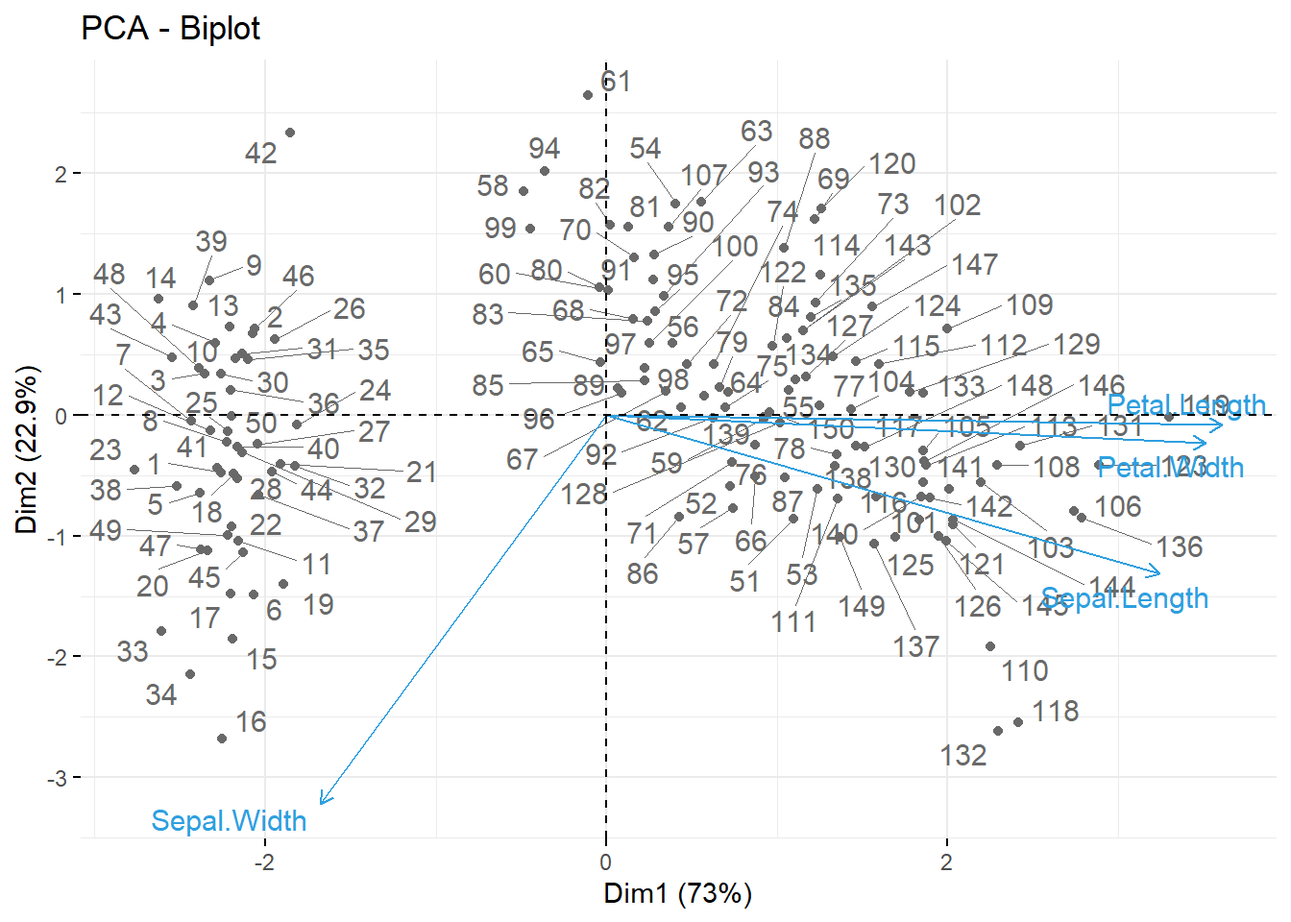
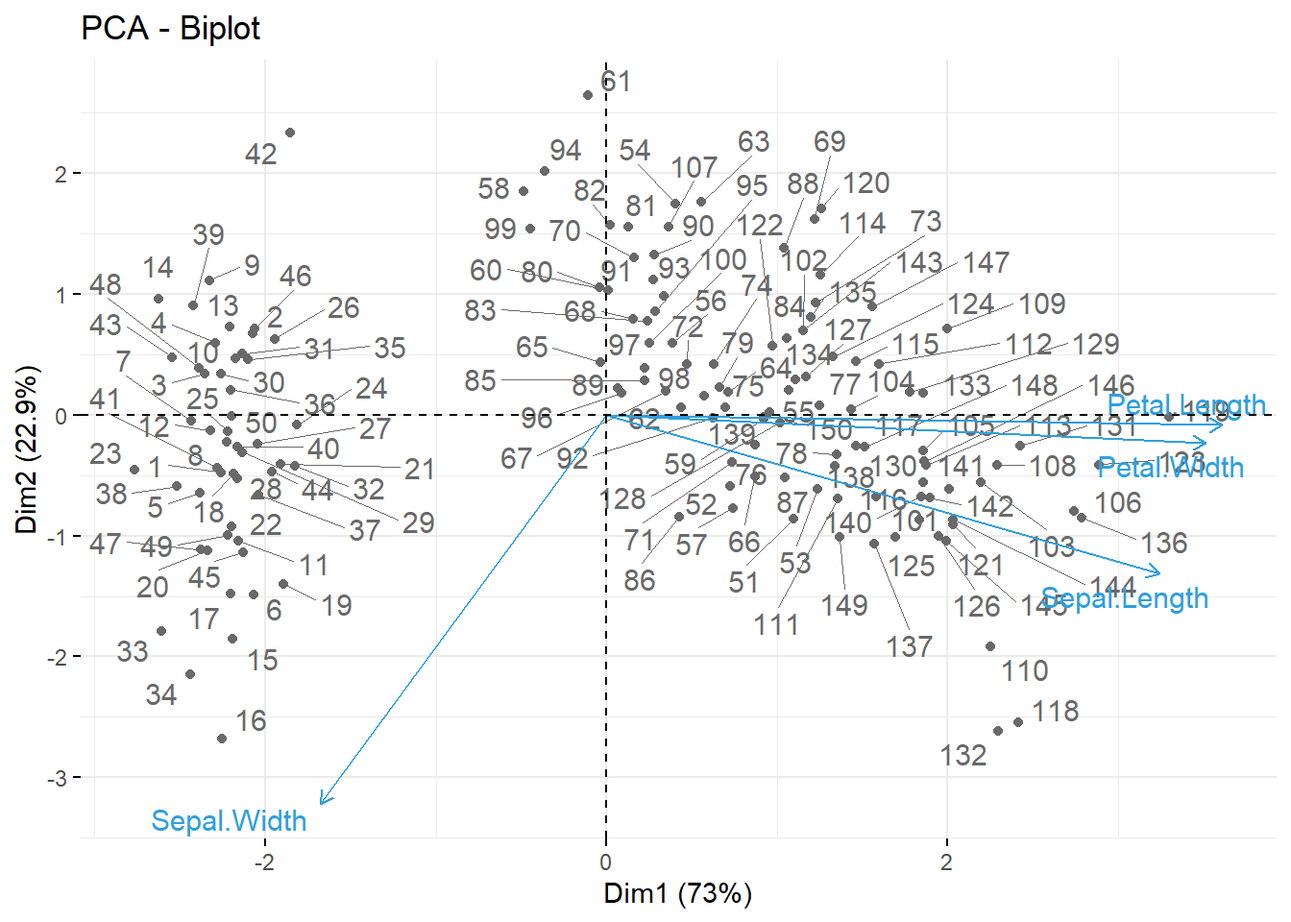
cambio notación

diff --git a/docs/intro.html b/docs/intro.html
@@ -2624,7 +2624,7 @@ $ stand_bm          &lt;dbl&gt; 0.107591350, 0.216626878, -0.982763938, NA, -0.5
 <span id="cb178-22"><a href="#cb178-22" aria-hidden="true" tabindex="-1"></a>fig</span></code><button title="Copiar al portapapeles" class="code-copy-button"><i class="bi"></i></button></pre></div>
 <div class="cell-output-display">
 <div class="plotly html-widget html-fill-item-overflow-hidden html-fill-item" id="htmlwidget-0d7598595affc4f25ab8" style="width:100%;height:464px;"></div>
-<script type="application/json" data-for="htmlwidget-0d7598595affc4f25ab8">{"x":{"visdat":{"2478389a46b0":["function () ","plotlyVisDat"]},"cur_data":"2478389a46b0","attrs":{"2478389a46b0":{"mode":"lines","alpha_stroke":1,"sizes":[10,100],"spans":[1,20],"type":"scatter"},"2478389a46b0.1":{"mode":"lines","alpha_stroke":1,"sizes":[10,100],"spans":[1,20],"type":"scatter","x":{},"y":{},"name":"GOOG","inherit":true}},"layout":{"width":900,"margin":{"b":40,"l":60,"t":25,"r":10},"showlegend":false,"xaxis":{"domain":[0,1],"automargin":true,"zerolinecolor":"#ffff","zerolinewidth":2,"gridcolor":"ffff","title":"date"},"yaxis":{"domain":[0,1],"automargin":true,"zerolinecolor":"#ffff","zerolinewidth":2,"gridcolor":"ffff","title":"GOOG"},"plot_bgcolor":"#e5ecf6","hovermode":"closest"},"source":"A","config":{"modeBarButtonsToAdd":["hoverclosest","hovercompare"],"showSendToCloud":false},"data":[{"mode":"lines","type":"scatter","marker":{"color":"rgba(31,119,180,1)","line":{"color":"rgba(31,119,180,1)"}},"error_y":{"color":"rgba(31,119,180,1)"},"error_x":{"color":"rgba(31,119,180,1)"},"line":{"color":"rgba(31,119,180,1)"},"xaxis":"x","yaxis":"y","frame":null},{"mode":"lines","type":"scatter","x":["2018-01-02","2018-01-03","2018-01-04","2018-01-05","2018-01-08","2018-01-09","2018-01-10","2018-01-11","2018-01-12","2018-01-16","2018-01-17","2018-01-18","2018-01-19","2018-01-22","2018-01-23","2018-01-24","2018-01-25","2018-01-26","2018-01-29","2018-01-30","2018-01-31","2018-02-01","2018-02-02","2018-02-05","2018-02-06","2018-02-07","2018-02-08","2018-02-09","2018-02-12","2018-02-13","2018-02-14","2018-02-15","2018-02-16","2018-02-20","2018-02-21","2018-02-22","2018-02-23","2018-02-26","2018-02-27","2018-02-28","2018-03-01","2018-03-02","2018-03-05","2018-03-06","2018-03-07","2018-03-08","2018-03-09","2018-03-12","2018-03-13","2018-03-14","2018-03-15","2018-03-16","2018-03-19","2018-03-20","2018-03-21","2018-03-22","2018-03-23","2018-03-26","2018-03-27","2018-03-28","2018-03-29","2018-04-02","2018-04-03","2018-04-04","2018-04-05","2018-04-06","2018-04-09","2018-04-10","2018-04-11","2018-04-12","2018-04-13","2018-04-16","2018-04-17","2018-04-18","2018-04-19","2018-04-20","2018-04-23","2018-04-24","2018-04-25","2018-04-26","2018-04-27","2018-04-30","2018-05-01","2018-05-02","2018-05-03","2018-05-04","2018-05-07","2018-05-08","2018-05-09","2018-05-10","2018-05-11","2018-05-14","2018-05-15","2018-05-16","2018-05-17","2018-05-18","2018-05-21","2018-05-22","2018-05-23","2018-05-24","2018-05-25","2018-05-29","2018-05-30","2018-05-31","2018-06-01","2018-06-04","2018-06-05","2018-06-06","2018-06-07","2018-06-08","2018-06-11","2018-06-12","2018-06-13","2018-06-14","2018-06-15","2018-06-18","2018-06-19","2018-06-20","2018-06-21","2018-06-22","2018-06-25","2018-06-26","2018-06-27","2018-06-28","2018-06-29","2018-07-02","2018-07-03","2018-07-05","2018-07-06","2018-07-09","2018-07-10","2018-07-11","2018-07-12","2018-07-13","2018-07-16","2018-07-17","2018-07-18","2018-07-19","2018-07-20","2018-07-23","2018-07-24","2018-07-25","2018-07-26","2018-07-27","2018-07-30","2018-07-31","2018-08-01","2018-08-02","2018-08-03","2018-08-06","2018-08-07","2018-08-08","2018-08-09","2018-08-10","2018-08-13","2018-08-14","2018-08-15","2018-08-16","2018-08-17","2018-08-20","2018-08-21","2018-08-22","2018-08-23","2018-08-24","2018-08-27","2018-08-28","2018-08-29","2018-08-30","2018-08-31","2018-09-04","2018-09-05","2018-09-06","2018-09-07","2018-09-10","2018-09-11","2018-09-12","2018-09-13","2018-09-14","2018-09-17","2018-09-18","2018-09-19","2018-09-20","2018-09-21","2018-09-24","2018-09-25","2018-09-26","2018-09-27","2018-09-28","2018-10-01","2018-10-02","2018-10-03","2018-10-04","2018-10-05","2018-10-08","2018-10-09","2018-10-10","2018-10-11","2018-10-12","2018-10-15","2018-10-16","2018-10-17","2018-10-18","2018-10-19","2018-10-22","2018-10-23","2018-10-24","2018-10-25","2018-10-26","2018-10-29","2018-10-30","2018-10-31","2018-11-01","2018-11-02","2018-11-05","2018-11-06","2018-11-07","2018-11-08","2018-11-09","2018-11-12","2018-11-13","2018-11-14","2018-11-15","2018-11-16","2018-11-19","2018-11-20","2018-11-21","2018-11-23","2018-11-26","2018-11-27","2018-11-28","2018-11-29","2018-11-30","2018-12-03","2018-12-04","2018-12-06","2018-12-07","2018-12-10","2018-12-11","2018-12-12","2018-12-13","2018-12-14","2018-12-17","2018-12-18","2018-12-19","2018-12-20","2018-12-21","2018-12-24","2018-12-26","2018-12-27","2018-12-28","2018-12-31","2019-01-02","2019-01-03","2019-01-04","2019-01-07","2019-01-08","2019-01-09","2019-01-10","2019-01-11","2019-01-14","2019-01-15","2019-01-16","2019-01-17","2019-01-18","2019-01-22","2019-01-23","2019-01-24","2019-01-25","2019-01-28","2019-01-29","2019-01-30","2019-01-31","2019-02-01","2019-02-04","2019-02-05","2019-02-06","2019-02-07","2019-02-08","2019-02-11","2019-02-12","2019-02-13","2019-02-14","2019-02-15","2019-02-19","2019-02-20","2019-02-21","2019-02-22","2019-02-25","2019-02-26","2019-02-27","2019-02-28","2019-03-01","2019-03-04","2019-03-05","2019-03-06","2019-03-07","2019-03-08","2019-03-11","2019-03-12","2019-03-13","2019-03-14","2019-03-15","2019-03-18","2019-03-19","2019-03-20","2019-03-21","2019-03-22","2019-03-25","2019-03-26","2019-03-27","2019-03-28","2019-03-29","2019-04-01","2019-04-02","2019-04-03","2019-04-04","2019-04-05","2019-04-08","2019-04-09","2019-04-10","2019-04-11","2019-04-12","2019-04-15","2019-04-16","2019-04-17","2019-04-18","2019-04-22","2019-04-23","2019-04-24","2019-04-25","2019-04-26","2019-04-29","2019-04-30","2019-05-01","2019-05-02","2019-05-03","2019-05-06","2019-05-07","2019-05-08","2019-05-09","2019-05-10","2019-05-13","2019-05-14","2019-05-15","2019-05-16","2019-05-17","2019-05-20","2019-05-21","2019-05-22","2019-05-23","2019-05-24","2019-05-28","2019-05-29","2019-05-30","2019-05-31","2019-06-03","2019-06-04","2019-06-05","2019-06-06","2019-06-07","2019-06-10","2019-06-11","2019-06-12","2019-06-13","2019-06-14","2019-06-17","2019-06-18","2019-06-19","2019-06-20","2019-06-21","2019-06-24","2019-06-25","2019-06-26","2019-06-27","2019-06-28","2019-07-01","2019-07-02","2019-07-03","2019-07-05","2019-07-08","2019-07-09","2019-07-10","2019-07-11","2019-07-12","2019-07-15","2019-07-16","2019-07-17","2019-07-18","2019-07-19","2019-07-22","2019-07-23","2019-07-24","2019-07-25","2019-07-26","2019-07-29","2019-07-30","2019-07-31","2019-08-01","2019-08-02","2019-08-05","2019-08-06","2019-08-07","2019-08-08","2019-08-09","2019-08-12","2019-08-13","2019-08-14","2019-08-15","2019-08-16","2019-08-19","2019-08-20","2019-08-21","2019-08-22","2019-08-23","2019-08-26","2019-08-27","2019-08-28","2019-08-29","2019-08-30","2019-09-03","2019-09-04","2019-09-05","2019-09-06","2019-09-09","2019-09-10","2019-09-11","2019-09-12","2019-09-13","2019-09-16","2019-09-17","2019-09-18","2019-09-19","2019-09-20","2019-09-23","2019-09-24","2019-09-25","2019-09-26","2019-09-27","2019-09-30","2019-10-01","2019-10-02","2019-10-03","2019-10-04","2019-10-07","2019-10-08","2019-10-09","2019-10-10","2019-10-11","2019-10-14","2019-10-15","2019-10-16","2019-10-17","2019-10-18","2019-10-21","2019-10-22","2019-10-23","2019-10-24","2019-10-25","2019-10-28","2019-10-29","2019-10-30","2019-10-31","2019-11-01","2019-11-04","2019-11-05","2019-11-06","2019-11-07","2019-11-08","2019-11-11","2019-11-12","2019-11-13","2019-11-14","2019-11-15","2019-11-18","2019-11-19","2019-11-20","2019-11-21","2019-11-22","2019-11-25","2019-11-26","2019-11-27","2019-11-29","2019-12-02","2019-12-03","2019-12-04","2019-12-05","2019-12-06","2019-12-09","2019-12-10","2019-12-11","2019-12-12","2019-12-13","2019-12-16","2019-12-17","2019-12-18","2019-12-19","2019-12-20","2019-12-23","2019-12-24","2019-12-26","2019-12-27","2019-12-30"],"y":[1,1.01641315585571,1.02009389098261,1.03495774246717,1.03938028398254,1.03874177887966,1.03531456889121,1.03804696669601,1.05376523873056,1.05329579814499,1.06289200044014,1.06083564579207,1.06808450188435,1.0852676176689,1.09856339575539,1.09318313240445,1.09893899120635,1.10407511393229,1.10383097330729,1.09266669761407,1.09853524221501,1.09643189336213,1.04403758160945,0.99136151954042,1.01464786439994,0.984582175671215,0.940394370208884,0.97444131340779,0.987737091494278,0.987887315347161,1.00441315700191,1.02302350684511,1.02798125217778,1.03517372955179,1.0435117623056,1.03908922079024,1.05801878736612,1.07394366197183,1.05003758103635,1.03730516030755,1.0042441641221,1.01307040648841,1.02434743961818,1.02822532116527,1.04191546372964,1.05727698097766,1.08923941598812,1.09342720139195,1.06870423796031,1.07933330983623,1.07941784209489,1.0664131272007,1.03269485688545,1.03071364998258,1.02430044541337,0.985051616256786,0.959220635499193,0.988929569441388,0.943755888603103,0.943248838326181,0.968816909431852,0.94504228332233,0.951558717539613,0.962572769379952,0.965079795586671,0.945577487139635,0.953474161210754,0.96867607009243,0.957718325332857,0.969492952588578,0.966450722564554,0.974629075314517,1.00860094240574,1.00664788904324,1.02131452247011,1.00747415605285,1.00230049527307,0.957727709846317,0.958854424561693,0.976563359650088,0.967183072802047,0.95523945266652,0.974000026362603,0.961859188169381,0.96123945209342,0.984234733760637,0.990413110580803,0.989586843571193,1.01667606550763,1.03058219515662,1.03123001313545,1.03305161167199,1.01336146968071,1.01574649721244,1.01276057426918,1.00127701020577,1.01369014256437,1.00444131054229,1.01379344384995,1.01337092583168,1.01000940743746,0.995605612025015,1.00262909651922,1.01876995820954,1.05117368026518,1.069755876568,1.07010331847858,1.06749299098628,1.0552676205344,1.05246007498441,1.0610234793363,1.06978403010838,1.06553048147282,1.08180279798911,1.08193425281507,1.10184038189096,1.09676995075924,1.09844132544289,1.08700468394678,1.08495771381217,1.05615965077575,1.05019718940269,1.03660096361044,1.04621593493251,1.04755870837001,1.05864790795555,1.03557747854313,1.05565260049883,1.07058214357761,1.08361501201218,1.08247884114583,1.08347417267276,1.11124882227938,1.11626294633033,1.11160564870342,1.1256337770274,1.12289199470914,1.11451642390148,1.11259152407937,1.13192491128411,1.17190609067818,1.18657279574255,1.19092018951273,1.16291078379456,1.14529576547829,1.14296711666483,1.14554929061675,1.15131453393211,1.14902349481001,1.15001875469942,1.16640375701474,1.16958682637819,1.17286388415126,1.16207513227149,1.159633797659,1.16629107121571,1.14026294403793,1.1328544795793,1.12766197813509,1.13405634203987,1.12828171421105,1.13364320853506,1.13181222548507,1.14615025766579,1.16602816156378,1.15600936961286,1.17305164605799,1.16349298181668,1.14384037787925,1.12394363331683,1.11406575234283,1.09994363560923,1.09373710524868,1.09355865621791,1.10550234799094,1.09184974348041,1.10359621719575,1.10096712067653,1.08549298926698,1.09034743331408,1.09961503436308,1.11443189164283,1.09492019868233,1.1017558496323,1.11234738345437,1.10844134836689,1.12172767030241,1.12062910912742,1.12235679089184,1.12686386466586,1.12953049923892,1.09689202107174,1.08671362075447,1.07884510022374,1.06931458952281,1.01523006242206,1.01344600193937,1.04232866887196,1.02558684013259,1.05284505494883,1.04759624642386,1.02156804760857,1.02953994106239,1.03395302642679,1.03632866944506,0.986582151601012,1.02870421790181,1.0060751471721,0.957821626618435,0.972967156781837,1.01105166153169,1.00469483568075,0.993230040644256,0.9766103538549,0.991370904053881,1.0266572477672,1.01633800811051,1.00107979214807,0.975239426877017,0.972816932928954,0.979962416098151,0.999727705834617,0.996704244837515,0.957746478873239,0.963154895764561,0.974281705041447,0.961389675946303,0.984619713725059,0.980666684432768,1.01993428261627,1.0218779514653,1.0276338102672,1.038901387246,0.98668545288659,1.00350235773364,0.973314527054908,0.976103303577978,0.987558714101012,0.998760527848078,0.997089224801937,0.978497643985659,0.954488261764598,0.96592490326071,0.960572793450154,0.94780283466751,0.919755890895503,0.916638513126284,0.976018771319322,0.980169018669308,0.973784039277986,0.972403727786642,0.982018770746222,0.95404697471941,1.00536149432402,1.00318306936345,1.01059153382207,1.00907045462881,1.00500466789998,0.992666683286568,0.98092959408469,1.01140841631822,1.01499530631052,1.02338026163164,1.03123001313545,1.00518311693075,1.00992487517881,1.00835680178074,1.02440374669894,1.00476998342595,0.995887290703859,1.02259153267587,1.04823475152674,1.04295771782387,1.06366196036898,1.07604693918721,1.04716434389213,1.03165260279123,1.02822532116527,1.02817839859797,1.05292958720749,1.05179341634115,1.05321126588633,1.04568073111521,1.05029110617481,1.04582157045463,1.03001876616142,1.04260096303734,1.04169016376907,1.04707042712001,1.04793430382097,1.05156804474307,1.07135210350646,1.07774646741124,1.09110800872946,1.08719251749101,1.07352114395357,1.07260096017184,1.1039999661871,1.12037558398896,1.120488269788,1.11319249112841,1.11216900606111,1.11198124415438,1.12568077123221,1.14926763543501,1.15637558055036,1.13192491128411,1.12018782208223,1.11231922991399,1.10142724838615,1.09717369975059,1.10169954255153,1.12153052388223,1.1272206910899,1.13231927576199,1.14084507042254,1.13347414401775,1.1303662223995,1.12417838942837,1.12878876448797,1.13109857263699,1.14353993017349,1.14657277568405,1.15223471771384,1.16088265432438,1.16091080786477,1.17261974352626,1.18737090921178,1.17934270867719,1.18633803963102,1.19453523304541,1.20899526390112,1.11594365796013,1.09678871978616,1.09165259706023,1.11305165178899,1.11679815014763,1.10244134893999,1.09508919156213,1.09143660997561,1.09321128594484,1.06293899464495,1.05205632599307,1.09315490722656,1.10702349882171,1.09136153386792,1.0693427430632,1.07946476466219,1.0811455238593,1.07114557257281,1.06429108095841,1.06492958606129,1.04831928378539,1.04971829266615,1.03627229072678,0.972985925808759,0.988779345588505,0.978610329784698,0.980600921201034,1.00097649086249,1.01444133346629,1.01288264458168,1.01129580215669,1.02231923851049,1.01910801560666,1.02582159624413,1.0362441371864,1.03505165923929,1.04358683841329,1.05340848394403,1.04743663805751,1.02004696841531,1.01389674513553,1.01033800868361,1.01493899922975,1.03093894994315,1.04342723004695,1.05312673362768,1.06252578950264,1.04821598249982,1.05617841980267,1.07087320676992,1.07437556450356,1.0750234541199,1.08013142330546,1.08317372496699,1.07638499658432,1.0763662275574,1.06112678062188,1.0686103211882,1.07625354175836,1.0683661805632,1.0630234552661,1.17409390015222,1.16376527598206,1.15036619661,1.14242252833407,1.1352206664466,1.12111739037742,1.08199063153334,1.09854462672847,1.10233804765442,1.13126763715431,1.11550237091494,1.10301409081114,1.12419715845529,1.09323005497176,1.09601875985732,1.10572771958902,1.12530517578125,1.11050701589092,1.11854460093897,1.11692960497359,1.0810234535468,1.09754929520155,1.09656334818809,1.09954927113135,1.12004698274281,1.11558683153609,1.09707978297847,1.10930515343035,1.13744601397447,1.1313896358293,1.13090142621681,1.13239435186968,1.14569951446963,1.15892021644843,1.16390611532149,1.15615020895228,1.15413146399556,1.15719246304651,1.16310800185226,1.15486381423305,1.15871361387727,1.14437558169656,1.17044131856569,1.16562441257244,1.15031927404269,1.14460095329464,1.13154931583315,1.10481692032075,1.11533330639763,1.13521128193314,1.13397180978121,1.11655400952263,1.12892960382739,1.1349013780764,1.1412675884408,1.14285443086579,1.16714556340321,1.16773707430128,1.17659154184547,1.16947421221666,1.17009387665511,1.16694834534551,1.18228170905315,1.18402815984448,1.18791549754255,1.2112676056338,1.18555869518871,1.18430983852333,1.18320189283487,1.1960000051579,1.21255392871552,1.21317373642899,1.21295767770687,1.2289765407222,1.23133327143853,1.21989677321743,1.21953056227993,1.21877937137801,1.23141780369718,1.25339905644806,1.24009396548562,1.23517375820679,1.22352105798856,1.2219248310501,1.21628165804724,1.22693902673856,1.23338024157314,1.23285442226929,1.22531457462221,1.21119252952612,1.21622535096648,1.23994366999523,1.24707045577501,1.25879808882592,1.26155871180861,1.26259158138938,1.26292956714899,1.26785908730377,1.26556811981918,1.27809393797682,1.2724130836451,1.27006566580472,1.27327703198357,1.26722065383839,1.26651645714129,1.26155871180861,1.27737082897777,1.26938023813454,1.25459153439517],"name":"GOOG","marker":{"color":"rgba(255,127,14,1)","line":{"color":"rgba(255,127,14,1)"}},"error_y":{"color":"rgba(255,127,14,1)"},"error_x":{"color":"rgba(255,127,14,1)"},"line":{"color":"rgba(255,127,14,1)"},"xaxis":"x","yaxis":"y","frame":null}],"highlight":{"on":"plotly_click","persistent":false,"dynamic":false,"selectize":false,"opacityDim":0.2,"selected":{"opacity":1},"debounce":0},"shinyEvents":["plotly_hover","plotly_click","plotly_selected","plotly_relayout","plotly_brushed","plotly_brushing","plotly_clickannotation","plotly_doubleclick","plotly_deselect","plotly_afterplot","plotly_sunburstclick"],"base_url":"https://plot.ly"},"evals":[],"jsHooks":[]}</script>
+<script type="application/json" data-for="htmlwidget-0d7598595affc4f25ab8">{"x":{"visdat":{"1211070f81bc":["function () ","plotlyVisDat"]},"cur_data":"1211070f81bc","attrs":{"1211070f81bc":{"mode":"lines","alpha_stroke":1,"sizes":[10,100],"spans":[1,20],"type":"scatter"},"1211070f81bc.1":{"mode":"lines","alpha_stroke":1,"sizes":[10,100],"spans":[1,20],"type":"scatter","x":{},"y":{},"name":"GOOG","inherit":true}},"layout":{"width":900,"margin":{"b":40,"l":60,"t":25,"r":10},"showlegend":false,"xaxis":{"domain":[0,1],"automargin":true,"zerolinecolor":"#ffff","zerolinewidth":2,"gridcolor":"ffff","title":"date"},"yaxis":{"domain":[0,1],"automargin":true,"zerolinecolor":"#ffff","zerolinewidth":2,"gridcolor":"ffff","title":"GOOG"},"plot_bgcolor":"#e5ecf6","hovermode":"closest"},"source":"A","config":{"modeBarButtonsToAdd":["hoverclosest","hovercompare"],"showSendToCloud":false},"data":[{"mode":"lines","type":"scatter","marker":{"color":"rgba(31,119,180,1)","line":{"color":"rgba(31,119,180,1)"}},"error_y":{"color":"rgba(31,119,180,1)"},"error_x":{"color":"rgba(31,119,180,1)"},"line":{"color":"rgba(31,119,180,1)"},"xaxis":"x","yaxis":"y","frame":null},{"mode":"lines","type":"scatter","x":["2018-01-02","2018-01-03","2018-01-04","2018-01-05","2018-01-08","2018-01-09","2018-01-10","2018-01-11","2018-01-12","2018-01-16","2018-01-17","2018-01-18","2018-01-19","2018-01-22","2018-01-23","2018-01-24","2018-01-25","2018-01-26","2018-01-29","2018-01-30","2018-01-31","2018-02-01","2018-02-02","2018-02-05","2018-02-06","2018-02-07","2018-02-08","2018-02-09","2018-02-12","2018-02-13","2018-02-14","2018-02-15","2018-02-16","2018-02-20","2018-02-21","2018-02-22","2018-02-23","2018-02-26","2018-02-27","2018-02-28","2018-03-01","2018-03-02","2018-03-05","2018-03-06","2018-03-07","2018-03-08","2018-03-09","2018-03-12","2018-03-13","2018-03-14","2018-03-15","2018-03-16","2018-03-19","2018-03-20","2018-03-21","2018-03-22","2018-03-23","2018-03-26","2018-03-27","2018-03-28","2018-03-29","2018-04-02","2018-04-03","2018-04-04","2018-04-05","2018-04-06","2018-04-09","2018-04-10","2018-04-11","2018-04-12","2018-04-13","2018-04-16","2018-04-17","2018-04-18","2018-04-19","2018-04-20","2018-04-23","2018-04-24","2018-04-25","2018-04-26","2018-04-27","2018-04-30","2018-05-01","2018-05-02","2018-05-03","2018-05-04","2018-05-07","2018-05-08","2018-05-09","2018-05-10","2018-05-11","2018-05-14","2018-05-15","2018-05-16","2018-05-17","2018-05-18","2018-05-21","2018-05-22","2018-05-23","2018-05-24","2018-05-25","2018-05-29","2018-05-30","2018-05-31","2018-06-01","2018-06-04","2018-06-05","2018-06-06","2018-06-07","2018-06-08","2018-06-11","2018-06-12","2018-06-13","2018-06-14","2018-06-15","2018-06-18","2018-06-19","2018-06-20","2018-06-21","2018-06-22","2018-06-25","2018-06-26","2018-06-27","2018-06-28","2018-06-29","2018-07-02","2018-07-03","2018-07-05","2018-07-06","2018-07-09","2018-07-10","2018-07-11","2018-07-12","2018-07-13","2018-07-16","2018-07-17","2018-07-18","2018-07-19","2018-07-20","2018-07-23","2018-07-24","2018-07-25","2018-07-26","2018-07-27","2018-07-30","2018-07-31","2018-08-01","2018-08-02","2018-08-03","2018-08-06","2018-08-07","2018-08-08","2018-08-09","2018-08-10","2018-08-13","2018-08-14","2018-08-15","2018-08-16","2018-08-17","2018-08-20","2018-08-21","2018-08-22","2018-08-23","2018-08-24","2018-08-27","2018-08-28","2018-08-29","2018-08-30","2018-08-31","2018-09-04","2018-09-05","2018-09-06","2018-09-07","2018-09-10","2018-09-11","2018-09-12","2018-09-13","2018-09-14","2018-09-17","2018-09-18","2018-09-19","2018-09-20","2018-09-21","2018-09-24","2018-09-25","2018-09-26","2018-09-27","2018-09-28","2018-10-01","2018-10-02","2018-10-03","2018-10-04","2018-10-05","2018-10-08","2018-10-09","2018-10-10","2018-10-11","2018-10-12","2018-10-15","2018-10-16","2018-10-17","2018-10-18","2018-10-19","2018-10-22","2018-10-23","2018-10-24","2018-10-25","2018-10-26","2018-10-29","2018-10-30","2018-10-31","2018-11-01","2018-11-02","2018-11-05","2018-11-06","2018-11-07","2018-11-08","2018-11-09","2018-11-12","2018-11-13","2018-11-14","2018-11-15","2018-11-16","2018-11-19","2018-11-20","2018-11-21","2018-11-23","2018-11-26","2018-11-27","2018-11-28","2018-11-29","2018-11-30","2018-12-03","2018-12-04","2018-12-06","2018-12-07","2018-12-10","2018-12-11","2018-12-12","2018-12-13","2018-12-14","2018-12-17","2018-12-18","2018-12-19","2018-12-20","2018-12-21","2018-12-24","2018-12-26","2018-12-27","2018-12-28","2018-12-31","2019-01-02","2019-01-03","2019-01-04","2019-01-07","2019-01-08","2019-01-09","2019-01-10","2019-01-11","2019-01-14","2019-01-15","2019-01-16","2019-01-17","2019-01-18","2019-01-22","2019-01-23","2019-01-24","2019-01-25","2019-01-28","2019-01-29","2019-01-30","2019-01-31","2019-02-01","2019-02-04","2019-02-05","2019-02-06","2019-02-07","2019-02-08","2019-02-11","2019-02-12","2019-02-13","2019-02-14","2019-02-15","2019-02-19","2019-02-20","2019-02-21","2019-02-22","2019-02-25","2019-02-26","2019-02-27","2019-02-28","2019-03-01","2019-03-04","2019-03-05","2019-03-06","2019-03-07","2019-03-08","2019-03-11","2019-03-12","2019-03-13","2019-03-14","2019-03-15","2019-03-18","2019-03-19","2019-03-20","2019-03-21","2019-03-22","2019-03-25","2019-03-26","2019-03-27","2019-03-28","2019-03-29","2019-04-01","2019-04-02","2019-04-03","2019-04-04","2019-04-05","2019-04-08","2019-04-09","2019-04-10","2019-04-11","2019-04-12","2019-04-15","2019-04-16","2019-04-17","2019-04-18","2019-04-22","2019-04-23","2019-04-24","2019-04-25","2019-04-26","2019-04-29","2019-04-30","2019-05-01","2019-05-02","2019-05-03","2019-05-06","2019-05-07","2019-05-08","2019-05-09","2019-05-10","2019-05-13","2019-05-14","2019-05-15","2019-05-16","2019-05-17","2019-05-20","2019-05-21","2019-05-22","2019-05-23","2019-05-24","2019-05-28","2019-05-29","2019-05-30","2019-05-31","2019-06-03","2019-06-04","2019-06-05","2019-06-06","2019-06-07","2019-06-10","2019-06-11","2019-06-12","2019-06-13","2019-06-14","2019-06-17","2019-06-18","2019-06-19","2019-06-20","2019-06-21","2019-06-24","2019-06-25","2019-06-26","2019-06-27","2019-06-28","2019-07-01","2019-07-02","2019-07-03","2019-07-05","2019-07-08","2019-07-09","2019-07-10","2019-07-11","2019-07-12","2019-07-15","2019-07-16","2019-07-17","2019-07-18","2019-07-19","2019-07-22","2019-07-23","2019-07-24","2019-07-25","2019-07-26","2019-07-29","2019-07-30","2019-07-31","2019-08-01","2019-08-02","2019-08-05","2019-08-06","2019-08-07","2019-08-08","2019-08-09","2019-08-12","2019-08-13","2019-08-14","2019-08-15","2019-08-16","2019-08-19","2019-08-20","2019-08-21","2019-08-22","2019-08-23","2019-08-26","2019-08-27","2019-08-28","2019-08-29","2019-08-30","2019-09-03","2019-09-04","2019-09-05","2019-09-06","2019-09-09","2019-09-10","2019-09-11","2019-09-12","2019-09-13","2019-09-16","2019-09-17","2019-09-18","2019-09-19","2019-09-20","2019-09-23","2019-09-24","2019-09-25","2019-09-26","2019-09-27","2019-09-30","2019-10-01","2019-10-02","2019-10-03","2019-10-04","2019-10-07","2019-10-08","2019-10-09","2019-10-10","2019-10-11","2019-10-14","2019-10-15","2019-10-16","2019-10-17","2019-10-18","2019-10-21","2019-10-22","2019-10-23","2019-10-24","2019-10-25","2019-10-28","2019-10-29","2019-10-30","2019-10-31","2019-11-01","2019-11-04","2019-11-05","2019-11-06","2019-11-07","2019-11-08","2019-11-11","2019-11-12","2019-11-13","2019-11-14","2019-11-15","2019-11-18","2019-11-19","2019-11-20","2019-11-21","2019-11-22","2019-11-25","2019-11-26","2019-11-27","2019-11-29","2019-12-02","2019-12-03","2019-12-04","2019-12-05","2019-12-06","2019-12-09","2019-12-10","2019-12-11","2019-12-12","2019-12-13","2019-12-16","2019-12-17","2019-12-18","2019-12-19","2019-12-20","2019-12-23","2019-12-24","2019-12-26","2019-12-27","2019-12-30"],"y":[1,1.01641315585571,1.02009389098261,1.03495774246717,1.03938028398254,1.03874177887966,1.03531456889121,1.03804696669601,1.05376523873056,1.05329579814499,1.06289200044014,1.06083564579207,1.06808450188435,1.0852676176689,1.09856339575539,1.09318313240445,1.09893899120635,1.10407511393229,1.10383097330729,1.09266669761407,1.09853524221501,1.09643189336213,1.04403758160945,0.99136151954042,1.01464786439994,0.984582175671215,0.940394370208884,0.97444131340779,0.987737091494278,0.987887315347161,1.00441315700191,1.02302350684511,1.02798125217778,1.03517372955179,1.0435117623056,1.03908922079024,1.05801878736612,1.07394366197183,1.05003758103635,1.03730516030755,1.0042441641221,1.01307040648841,1.02434743961818,1.02822532116527,1.04191546372964,1.05727698097766,1.08923941598812,1.09342720139195,1.06870423796031,1.07933330983623,1.07941784209489,1.0664131272007,1.03269485688545,1.03071364998258,1.02430044541337,0.985051616256786,0.959220635499193,0.988929569441388,0.943755888603103,0.943248838326181,0.968816909431852,0.94504228332233,0.951558717539613,0.962572769379952,0.965079795586671,0.945577487139635,0.953474161210754,0.96867607009243,0.957718325332857,0.969492952588578,0.966450722564554,0.974629075314517,1.00860094240574,1.00664788904324,1.02131452247011,1.00747415605285,1.00230049527307,0.957727709846317,0.958854424561693,0.976563359650088,0.967183072802047,0.95523945266652,0.974000026362603,0.961859188169381,0.96123945209342,0.984234733760637,0.990413110580803,0.989586843571193,1.01667606550763,1.03058219515662,1.03123001313545,1.03305161167199,1.01336146968071,1.01574649721244,1.01276057426918,1.00127701020577,1.01369014256437,1.00444131054229,1.01379344384995,1.01337092583168,1.01000940743746,0.995605612025015,1.00262909651922,1.01876995820954,1.05117368026518,1.069755876568,1.07010331847858,1.06749299098628,1.0552676205344,1.05246007498441,1.0610234793363,1.06978403010838,1.06553048147282,1.08180279798911,1.08193425281507,1.10184038189096,1.09676995075924,1.09844132544289,1.08700468394678,1.08495771381217,1.05615965077575,1.05019718940269,1.03660096361044,1.04621593493251,1.04755870837001,1.05864790795555,1.03557747854313,1.05565260049883,1.07058214357761,1.08361501201218,1.08247884114583,1.08347417267276,1.11124882227938,1.11626294633033,1.11160564870342,1.1256337770274,1.12289199470914,1.11451642390148,1.11259152407937,1.13192491128411,1.17190609067818,1.18657279574255,1.19092018951273,1.16291078379456,1.14529576547829,1.14296711666483,1.14554929061675,1.15131453393211,1.14902349481001,1.15001875469942,1.16640375701474,1.16958682637819,1.17286388415126,1.16207513227149,1.159633797659,1.16629107121571,1.14026294403793,1.1328544795793,1.12766197813509,1.13405634203987,1.12828171421105,1.13364320853506,1.13181222548507,1.14615025766579,1.16602816156378,1.15600936961286,1.17305164605799,1.16349298181668,1.14384037787925,1.12394363331683,1.11406575234283,1.09994363560923,1.09373710524868,1.09355865621791,1.10550234799094,1.09184974348041,1.10359621719575,1.10096712067653,1.08549298926698,1.09034743331408,1.09961503436308,1.11443189164283,1.09492019868233,1.1017558496323,1.11234738345437,1.10844134836689,1.12172767030241,1.12062910912742,1.12235679089184,1.12686386466586,1.12953049923892,1.09689202107174,1.08671362075447,1.07884510022374,1.06931458952281,1.01523006242206,1.01344600193937,1.04232866887196,1.02558684013259,1.05284505494883,1.04759624642386,1.02156804760857,1.02953994106239,1.03395302642679,1.03632866944506,0.986582151601012,1.02870421790181,1.0060751471721,0.957821626618435,0.972967156781837,1.01105166153169,1.00469483568075,0.993230040644256,0.9766103538549,0.991370904053881,1.0266572477672,1.01633800811051,1.00107979214807,0.975239426877017,0.972816932928954,0.979962416098151,0.999727705834617,0.996704244837515,0.957746478873239,0.963154895764561,0.974281705041447,0.961389675946303,0.984619713725059,0.980666684432768,1.01993428261627,1.0218779514653,1.0276338102672,1.038901387246,0.98668545288659,1.00350235773364,0.973314527054908,0.976103303577978,0.987558714101012,0.998760527848078,0.997089224801937,0.978497643985659,0.954488261764598,0.96592490326071,0.960572793450154,0.94780283466751,0.919755890895503,0.916638513126284,0.976018771319322,0.980169018669308,0.973784039277986,0.972403727786642,0.982018770746222,0.95404697471941,1.00536149432402,1.00318306936345,1.01059153382207,1.00907045462881,1.00500466789998,0.992666683286568,0.98092959408469,1.01140841631822,1.01499530631052,1.02338026163164,1.03123001313545,1.00518311693075,1.00992487517881,1.00835680178074,1.02440374669894,1.00476998342595,0.995887290703859,1.02259153267587,1.04823475152674,1.04295771782387,1.06366196036898,1.07604693918721,1.04716434389213,1.03165260279123,1.02822532116527,1.02817839859797,1.05292958720749,1.05179341634115,1.05321126588633,1.04568073111521,1.05029110617481,1.04582157045463,1.03001876616142,1.04260096303734,1.04169016376907,1.04707042712001,1.04793430382097,1.05156804474307,1.07135210350646,1.07774646741124,1.09110800872946,1.08719251749101,1.07352114395357,1.07260096017184,1.1039999661871,1.12037558398896,1.120488269788,1.11319249112841,1.11216900606111,1.11198124415438,1.12568077123221,1.14926763543501,1.15637558055036,1.13192491128411,1.12018782208223,1.11231922991399,1.10142724838615,1.09717369975059,1.10169954255153,1.12153052388223,1.1272206910899,1.13231927576199,1.14084507042254,1.13347414401775,1.1303662223995,1.12417838942837,1.12878876448797,1.13109857263699,1.14353993017349,1.14657277568405,1.15223471771384,1.16088265432438,1.16091080786477,1.17261974352626,1.18737090921178,1.17934270867719,1.18633803963102,1.19453523304541,1.20899526390112,1.11594365796013,1.09678871978616,1.09165259706023,1.11305165178899,1.11679815014763,1.10244134893999,1.09508919156213,1.09143660997561,1.09321128594484,1.06293899464495,1.05205632599307,1.09315490722656,1.10702349882171,1.09136153386792,1.0693427430632,1.07946476466219,1.0811455238593,1.07114557257281,1.06429108095841,1.06492958606129,1.04831928378539,1.04971829266615,1.03627229072678,0.972985925808759,0.988779345588505,0.978610329784698,0.980600921201034,1.00097649086249,1.01444133346629,1.01288264458168,1.01129580215669,1.02231923851049,1.01910801560666,1.02582159624413,1.0362441371864,1.03505165923929,1.04358683841329,1.05340848394403,1.04743663805751,1.02004696841531,1.01389674513553,1.01033800868361,1.01493899922975,1.03093894994315,1.04342723004695,1.05312673362768,1.06252578950264,1.04821598249982,1.05617841980267,1.07087320676992,1.07437556450356,1.0750234541199,1.08013142330546,1.08317372496699,1.07638499658432,1.0763662275574,1.06112678062188,1.0686103211882,1.07625354175836,1.0683661805632,1.0630234552661,1.17409390015222,1.16376527598206,1.15036619661,1.14242252833407,1.1352206664466,1.12111739037742,1.08199063153334,1.09854462672847,1.10233804765442,1.13126763715431,1.11550237091494,1.10301409081114,1.12419715845529,1.09323005497176,1.09601875985732,1.10572771958902,1.12530517578125,1.11050701589092,1.11854460093897,1.11692960497359,1.0810234535468,1.09754929520155,1.09656334818809,1.09954927113135,1.12004698274281,1.11558683153609,1.09707978297847,1.10930515343035,1.13744601397447,1.1313896358293,1.13090142621681,1.13239435186968,1.14569951446963,1.15892021644843,1.16390611532149,1.15615020895228,1.15413146399556,1.15719246304651,1.16310800185226,1.15486381423305,1.15871361387727,1.14437558169656,1.17044131856569,1.16562441257244,1.15031927404269,1.14460095329464,1.13154931583315,1.10481692032075,1.11533330639763,1.13521128193314,1.13397180978121,1.11655400952263,1.12892960382739,1.1349013780764,1.1412675884408,1.14285443086579,1.16714556340321,1.16773707430128,1.17659154184547,1.16947421221666,1.17009387665511,1.16694834534551,1.18228170905315,1.18402815984448,1.18791549754255,1.2112676056338,1.18555869518871,1.18430983852333,1.18320189283487,1.1960000051579,1.21255392871552,1.21317373642899,1.21295767770687,1.2289765407222,1.23133327143853,1.21989677321743,1.21953056227993,1.21877937137801,1.23141780369718,1.25339905644806,1.24009396548562,1.23517375820679,1.22352105798856,1.2219248310501,1.21628165804724,1.22693902673856,1.23338024157314,1.23285442226929,1.22531457462221,1.21119252952612,1.21622535096648,1.23994366999523,1.24707045577501,1.25879808882592,1.26155871180861,1.26259158138938,1.26292956714899,1.26785908730377,1.26556811981918,1.27809393797682,1.2724130836451,1.27006566580472,1.27327703198357,1.26722065383839,1.26651645714129,1.26155871180861,1.27737082897777,1.26938023813454,1.25459153439517],"name":"GOOG","marker":{"color":"rgba(255,127,14,1)","line":{"color":"rgba(255,127,14,1)"}},"error_y":{"color":"rgba(255,127,14,1)"},"error_x":{"color":"rgba(255,127,14,1)"},"line":{"color":"rgba(255,127,14,1)"},"xaxis":"x","yaxis":"y","frame":null}],"highlight":{"on":"plotly_click","persistent":false,"dynamic":false,"selectize":false,"opacityDim":0.2,"selected":{"opacity":1},"debounce":0},"shinyEvents":["plotly_hover","plotly_click","plotly_selected","plotly_relayout","plotly_brushed","plotly_brushing","plotly_clickannotation","plotly_doubleclick","plotly_deselect","plotly_afterplot","plotly_sunburstclick"],"base_url":"https://plot.ly"},"evals":[],"jsHooks":[]}</script>
 </div>
 </div>
 </section>

diff --git a/docs/MDS.html b/docs/MDS.html
@@ -235,31 +235,30 @@ pre > code.sourceCode > span > a:first-child::before { text-decoration: underlin
 <p>El escalado multidimensional representa un enfoque complementario a componentes principales en el sentido siguiente.</p>
 <ul>
 <li><p>Componentes principales considera la matriz <span class="math inline">\(p \times p\)</span> de correlaciones (o covarianzas) entre variables, e investiga su estructura.</p></li>
-<li><p>El escalado multidimensional considera la matriz <span class="math inline">\(n \times n\)</span> de correlaciones (o covarianzas) entre individuos, e investiga su estructura. Los métodos existentes se dividen en métricos, cuando la matriz inicial es propiamente de distancias, y no métricos, cuando la matriz es de similaridades.</p></li>
+<li><p>El escalado multidimensional considera la matriz <span class="math inline">\(n \times n\)</span> de correlaciones (o covarianzas) entre individuos, e investiga su estructura. Los métodos existentes se dividen en métricos, cuando la matriz inicial es propiamente de distancias, y no métricos, cuando la matriz es de similaridades. Los métodos métricos, utilizan las diferencias entre similitudes mientras que los no métricos parten de que si <span class="math inline">\(A\)</span> es más similar a <span class="math inline">\(B\)</span> que a <span class="math inline">\(C\)</span>, entonces <span class="math inline">\(A\)</span> esta más cerca de <span class="math inline">\(B\)</span> que de <span class="math inline">\(C\)</span>, pero las diferencias entre las similitudes <span class="math inline">\(AB\)</span> y <span class="math inline">\(AC\)</span> no tienen interpretación.</p></li>
 </ul>
-<p>Los métodos métricos, utilizan las diferencias entre similitudes mientras que los no métricos parten de que si <span class="math inline">\(A\)</span> es más similar a <span class="math inline">\(B\)</span> que a <span class="math inline">\(C\)</span>, entonces <span class="math inline">\(A\)</span> esta más cerca de <span class="math inline">\(B\)</span> que de <span class="math inline">\(C\)</span>, pero las diferencias entre las similitudes <span class="math inline">\(AB\)</span> y <span class="math inline">\(AC\)</span> no tienen interpretación.</p>
 </section>
 <section id="reconstrucción-de-las-variables-a-partir-de-las-distancias-entre-puntos" class="level2" data-number="5.2">
 <h2 data-number="5.2" class="anchored" data-anchor-id="reconstrucción-de-las-variables-a-partir-de-las-distancias-entre-puntos"><span class="header-section-number">5.2</span> Reconstrucción de las variables a partir de las distancias entre puntos</h2>
 <p>Dado un conjunto <span class="math inline">\(p\)</span> de variables en <span class="math inline">\(n\)</span> individuos representados en la matriz <span class="math inline">\(\mathbf{X}_{n \times p}\)</span>, podemos construir dos tipos de matrices cuadradas y semidefinidas positivas: la matriz de covarianzas muestral <span class="math inline">\(\mathbf{S}\)</span> (definida por <span class="math inline">\(\frac{1}{n}\mathbf{X}^t \mathbf{X}\)</span>), si las variables tienen media cero, y la matriz de productos cruzados <span class="math inline">\(\mathbf{Q} = \mathbf{XX}^t\)</span>.</p>
-<p>El <span class="math inline">\(MDS\)</span> puede verse como un análisis de la matriz <span class="math inline">\(\mathbf{Q}\)</span> y esta puede interpretarse como una matriz de similitudes entre las observaciones ya que sus términos, <span class="math inline">\(q_{ij}\)</span>, contienen el producto escalar de las observaciones de dos elementos dados: <span class="math display">\[q_{ij} = \sum_{p=1}^k x_{ip}x_{jp} = \mathbf{x}_i^t \mathbf{x}_j \;\; \;\;  \; (1)\]</span> En efecto, como <span class="math inline">\(q_{ij}=|\mathbf{x}_i||\mathbf{x}_j|\cos \theta_{ij}\)</span>, si los dos elementos tienen coordenadas similares, <span class="math inline">\(\cos \theta_{ij}\approx 1\)</span> y <span class="math inline">\(q_{ij}\)</span> será grande. Por el contrario, si los dos elementos tienen valores distintos <span class="math inline">\(\cos \theta_{ij}\approx 0\)</span> y <span class="math inline">\(q_{ij}\)</span> será pequeño.</p>
+<p>El <span class="math inline">\(MDS\)</span> puede verse como un análisis de la matriz <span class="math inline">\(\mathbf{Q}\)</span> y esta puede interpretarse como una matriz de similitudes entre las observaciones ya que sus términos, <span class="math inline">\(q_{ij}\)</span>, contienen el producto escalar de las observaciones de dos elementos dados: <span class="math display">\[q_{ij} = \sum_{k=1}^p x_{ik}x_{jk} = \mathbf{x}_i^t \mathbf{x}_j \;\; \;\;  \; (1)\]</span> En efecto, como <span class="math inline">\(q_{ij}=|\mathbf{x}_i||\mathbf{x}_j|\cos \theta_{ij}\)</span>, si los dos elementos tienen coordenadas similares, <span class="math inline">\(\cos \theta_{ij}\approx 1\)</span> y <span class="math inline">\(q_{ij}\)</span> será grande. Por el contrario, si los dos elementos tienen valores distintos <span class="math inline">\(\cos \theta_{ij}\approx 0\)</span> y <span class="math inline">\(q_{ij}\)</span> será pequeño.</p>
 <p>La distancia Euclídea al cuadrado entre dos elementos se define por:</p>
-<p><span class="math display">\[d^2_{ij}=\sum_{p=1}^k (x_{ip}-x_{jp})^2=\sum_{p}x_{ip}^2+\sum_{p}x_{jp}^2-2\sum_{p}x_{ip}x_{jp}\]</span> y la podemos escribir en función de los términos de la matriz <span class="math inline">\(\mathbf{Q}\)</span>,</p>
+<p><span class="math display">\[d^2_{ij}=\sum_{k=1}^p (x_{ik}-x_{jk})^2=\sum_{k}x_{ik}^2+\sum_{k}x_{jk}^2-2\sum_{k}x_{ik}x_{jk}\]</span> y la podemos escribir en función de los términos de la matriz <span class="math inline">\(\mathbf{Q}\)</span>,</p>
 <p><span class="math display">\[d^2_{ij}=q_{ii}+q_{jj}-2q_{ij} \;\; \;\;  \; (2)\]</span></p>
 <p>Por tanto, dada la matriz <span class="math inline">\(\mathbf{X}\)</span> podemos construir la matriz <span class="math inline">\(\mathbf{Q}\)</span> y a partir de esta matriz es fácil obtener la matriz de distancias al cuadrado con ayuda de las expresiones (1) y (2).</p>
 <p>El problema que se aborda en MDS es el inverso: dada una matriz de distancias al cuadrado, <span class="math inline">\(\mathbf{D}\)</span>, con elementos <span class="math inline">\(d^2_{ij}\)</span> se trata de reconstruir la matrix <span class="math inline">\(\mathbf{X}\)</span>.</p>
 <p>Lo primero que se plantea es obtener la matriz <span class="math inline">\(\mathbf{Q}\)</span> dada la matriz <span class="math inline">\(\mathbf{D}\)</span>. Para ello, observemos, que sin pérdida de generalidad, siempre podemos suponer que las variables <span class="math inline">\(X\)</span> tienen media cero. En efecto, las distancias entre los puntos, <span class="math inline">\(d^2_{ij}\)</span> no varían si expresamos las variables en desviaciones a la media, ya que:</p>
-<p><span class="math display">\[d^2_{ij}=\sum_{p=1}^k (x_{ip}-x_{jp})^2=\sum_{p}\left[ (x_{ip}-\bar{x}_p)-(x_{jp}-\bar{x}_p) \right]^2 \;\; \;\;  \; (3)\]</span> y, por tanto, podemos suponer siempre que las variables que buscamos tienen media cero.</p>
+<p><span class="math display">\[d^2_{ij}=\sum_{k=1}^p (x_{ik}-x_{jk})^2=\sum_{k}\left[ (x_{ik}-\bar{x}_k)-(x_{jk}-\bar{x}_k) \right]^2 \;\; \;\;  \; (3)\]</span> y, por tanto, podemos suponer siempre que las variables que buscamos tienen media cero.</p>
 <p>Por ello, como resulta que <span class="math inline">\(\mathbf{X}^t \mathbf{1} = 0\)</span> se debe verificar que <span class="math inline">\(\mathbf{Q}\mathbf{1} = 0\)</span>, es decir, la suma de todos los elementos de una fila de la matriz <span class="math inline">\(\mathbf{Q}\)</span> (y de una columna ya que la matriz es simétrica) debe de ser cero.</p>
 <p>Luego, sumamos en (2) por filas: <span class="math display">\[\sum_{i=1}^n d^2_{ij}=\sum_{i=1}^n q_{ii}+nq_{jj}=t+nq_{jj} \;\; \;\;  \; (4)\]</span> donde <span class="math inline">\(t=\sum_{i=1}^n q_{ii}=traza(\mathbf{Q})\)</span>, y sabiendo que <span class="math inline">\(\sum_{i=1}^n q_{ij}=0\)</span>.</p>
 <p>Sumando (2) por columnas se tiene: <span class="math display">\[\sum_{j=1}^n d^2_{ij}=n q_{ii}+t \;\; \;\;  \; (5)\]</span> y sumando ahora (4) por filas de nuevo se tiene:</p>
 <p><span class="math display">\[\sum_{i=1}^n \sum_{j=1}^n d^2_{ij}=2nt\]</span></p>
 <p>Sustituyendo (4) y (5) en (2), tenemos que</p>
-<p><span class="math display">\[d^2_{ij}=\frac{1}{n}\sum_{p=1}^k d^2_{ij} - \frac{t}{n} + \frac{1}{n}\sum_{p=1}^k d^2_{ij} - \frac{t}{n} -2 q_{ij},  \]</span> y llamando <span class="math inline">\(d^2_{i.}\)</span> y <span class="math inline">\(d^2_{.j}\)</span> a las medias por filas y por columnas y utilizando (5), tenemos que</p>
+<p><span class="math display">\[d^2_{ij}=\frac{1}{n}\sum_{j=1}^n d^2_{ij} - \frac{t}{n} + \frac{1}{n}\sum_{i=1}^n d^2_{ij} - \frac{t}{n} -2 q_{ij},  \]</span> y llamando <span class="math inline">\(d^2_{i.}\)</span> y <span class="math inline">\(d^2_{.j}\)</span> a las medias por filas y por columnas y utilizando (5), tenemos que</p>
 <p><span class="math display">\[ d^2_{ij}= d^2_{i.}+ d^2_{.j}-d^2_{..}-2 q_{ij} \;\; \;\;  \; (6) \]</span> donde <span class="math inline">\(d^2_{..}=\frac{1}{n^2}\sum_{i=1}^n \sum_{j=1}^n d^2_{ij}\)</span></p>
 <p>Finalmente, despejando de (6) resulta que <span class="math display">\[q_{ij}=-\frac{1}{2}\left( d^2_{ij}-d^2_{i.}-d^2_{.j}+d^2_{..}\right)\]</span> expresión que indica cómo construir la matriz <span class="math inline">\(\mathbf{Q}\)</span> a partir de la matriz de distancias <span class="math inline">\(\mathbf{D}\)</span>.</p>
-<p>De una manera equivalente, se puede obtener la matriz <span class="math inline">\(\mathbf{X}\)</span> a partir de la matriz <span class="math inline">\(\mathbf{Q}\)</span>. Si ésta es definida positiva de rango <span class="math inline">\(k\)</span> entonces puede expresarse por <span class="math display">\[\mathbf{Q}=\mathbf{V} \mathbf{\Lambda}\mathbf{V}^t\]</span> donde <span class="math inline">\(\mathbf{V}\)</span> es una matriz <span class="math inline">\(n \times k\)</span> y <span class="math inline">\(\mathbf{\Lambda}\)</span> es una matriz diagonal <span class="math inline">\(k \times k\)</span> y contiene los vectores propios no nulos de <span class="math inline">\(\mathbf{Q}\)</span>. Entonces, podemos escribir <span class="math display">\[\mathbf{Q}=\left(\mathbf{V} \mathbf{\Lambda}^{1/2} \right) \left( \mathbf{\Lambda}^{1/2} \mathbf{V}^t \right)\]</span> y tomando</p>
-<p><span class="math display">\[\mathbf{Y}=\mathbf{V}\mathbf{\Lambda}^{1/2}\]</span> se obtienen <span class="math inline">\(k\)</span> variables incorreladas que reproducen la métrica.</p>
+<p>De una manera equivalente, se puede obtener la matriz <span class="math inline">\(\mathbf{X}\)</span> a partir de la matriz <span class="math inline">\(\mathbf{Q}\)</span>. Si ésta es definida positiva de rango <span class="math inline">\(p\)</span> entonces puede expresarse por <span class="math display">\[\mathbf{Q}=\mathbf{V} \mathbf{\Lambda}\mathbf{V}^t\]</span> donde <span class="math inline">\(\mathbf{V}\)</span> es una matriz <span class="math inline">\(n \times p\)</span> y <span class="math inline">\(\mathbf{\Lambda}\)</span> es una matriz diagonal <span class="math inline">\(p \times p\)</span> y contiene los vectores propios no nulos de <span class="math inline">\(\mathbf{Q}\)</span>. Entonces, podemos escribir <span class="math display">\[\mathbf{Q}=\left(\mathbf{V} \mathbf{\Lambda}^{1/2} \right) \left( \mathbf{\Lambda}^{1/2} \mathbf{V}^t \right)\]</span> y tomando</p>
+<p><span class="math display">\[\mathbf{Y}=\mathbf{V}\mathbf{\Lambda}^{1/2}\]</span> se obtienen <span class="math inline">\(p\)</span> variables incorreladas que reproducen la métrica.</p>
 <p>Observa que las variables <span class="math inline">\(\mathbf{Y}\)</span> no son las variables originales <span class="math inline">\(\mathbf{X}\)</span>, sino sus componentes principales.</p>
 </section>
 <section id="construcción-de-las-coordenadas-principales" class="level2" data-number="5.3">
